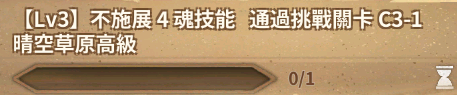
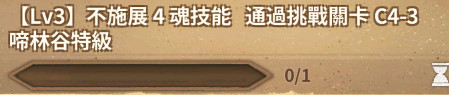
[Enhancement] 新增兩個公會任務

diff --git a/sdorica.sikuli/ModeClass.sikuli/ModeClass.html b/sdorica.sikuli/ModeClass.sikuli/ModeClass.html
@@ -704,12 +704,24 @@ logging.basicConfig(format=<span class="str">'%(asctime)s:%(message)s'</span>,st
             <span class="skw">click</span>(Pattern(<img src="quest_guild_lv4-0.png" />).similar(<span class="dig">0.95</span>))
             self.Algo = AlgoFactory.NOLVA_ALGO
             <span class="kw">return</span>
+        <span class="kw">if</span> exists(Pattern(<img src="quest_guild_lv4-1.png" />).similar(<span class="dig">0.95</span>),<span class="dig">0.001</span>):
+            <span class="skw">click</span>(Pattern(<img src="quest_guild_lv4-1.png" />).similar(<span class="dig">0.95</span>))
+            self.Algo = AlgoFactory.NOLVA_ALGO
+            <span class="kw">return</span>
         <span class="kw">if</span> exists(Pattern(<img src="quest_guild_lv3-0.png" />).similar(<span class="dig">0.95</span>),<span class="dig">0.001</span>):
             <span class="skw">click</span>(Pattern(<img src="quest_guild_lv3-0.png" />).similar(<span class="dig">0.95</span>))
             self.Algo = AlgoFactory.NOLVA_ALGO
             <span class="kw">return</span>
         <span class="kw">if</span> exists(Pattern(<img src="quest_guild_lv3-1.png" />).similar(<span class="dig">0.95</span>),<span class="dig">0.001</span>):
             <span class="skw">click</span>(Pattern(<img src="quest_guild_lv3-1.png" />).similar(<span class="dig">0.95</span>))
+            self.Algo = AlgoFactory.NOLVA_ALGO
+            <span class="kw">return</span>
+        <span class="kw">if</span> exists(Pattern(<img src="quest_guild_lv3-1.png" />).similar(<span class="dig">0.95</span>),<span class="dig">0.001</span>):
+            <span class="skw">click</span>(Pattern(<img src="quest_guild_lv3-1.png" />).similar(<span class="dig">0.95</span>))
+            self.Algo = AlgoFactory.NOLVA_ALGO
+            <span class="kw">return</span>
+        <span class="kw">if</span> exists(Pattern(<img src="quest_guild_lv6-0.png" />).similar(<span class="dig">0.95</span>),<span class="dig">0.001</span>):
+            <span class="skw">click</span>(Pattern(<img src="quest_guild_lv6-0.png" />).similar(<span class="dig">0.95</span>))
             self.Algo = AlgoFactory.NOLVA_ALGO
             <span class="kw">return</span>
         self.quest_done = True <span class="cmt">#解完任務了</span>

diff --git a/sdorica.sikuli/ModeClass.sikuli/ModeClass.py b/sdorica.sikuli/ModeClass.sikuli/ModeClass.py
@@ -632,12 +632,24 @@ class QuestMode(BasicMode):
             click(Pattern("quest_guild_lv4-0.png").similar(0.95))
             self.Algo = AlgoFactory.NOLVA_ALGO
             return
+        if exists(Pattern("quest_guild_lv4-1.png").similar(0.95),0.001):
+            click(Pattern("quest_guild_lv4-1.png").similar(0.95))
+            self.Algo = AlgoFactory.NOLVA_ALGO
+            return
         if exists(Pattern("quest_guild_lv3-0.png").similar(0.95),0.001):
             click(Pattern("quest_guild_lv3-0.png").similar(0.95))
             self.Algo = AlgoFactory.NOLVA_ALGO
             return
         if exists(Pattern("quest_guild_lv3-1.png").similar(0.95),0.001):
             click(Pattern("quest_guild_lv3-1.png").similar(0.95))
+            self.Algo = AlgoFactory.NOLVA_ALGO
+            return
+        if exists(Pattern("quest_guild_lv3-1.png").similar(0.95),0.001):
+            click(Pattern("quest_guild_lv3-1.png").similar(0.95))
+            self.Algo = AlgoFactory.NOLVA_ALGO
+            return
+        if exists(Pattern("quest_guild_lv6-0.png").similar(0.95),0.001):
+            click(Pattern("quest_guild_lv6-0.png").similar(0.95))
             self.Algo = AlgoFactory.NOLVA_ALGO
             return
         self.quest_done = True #解完任務了
